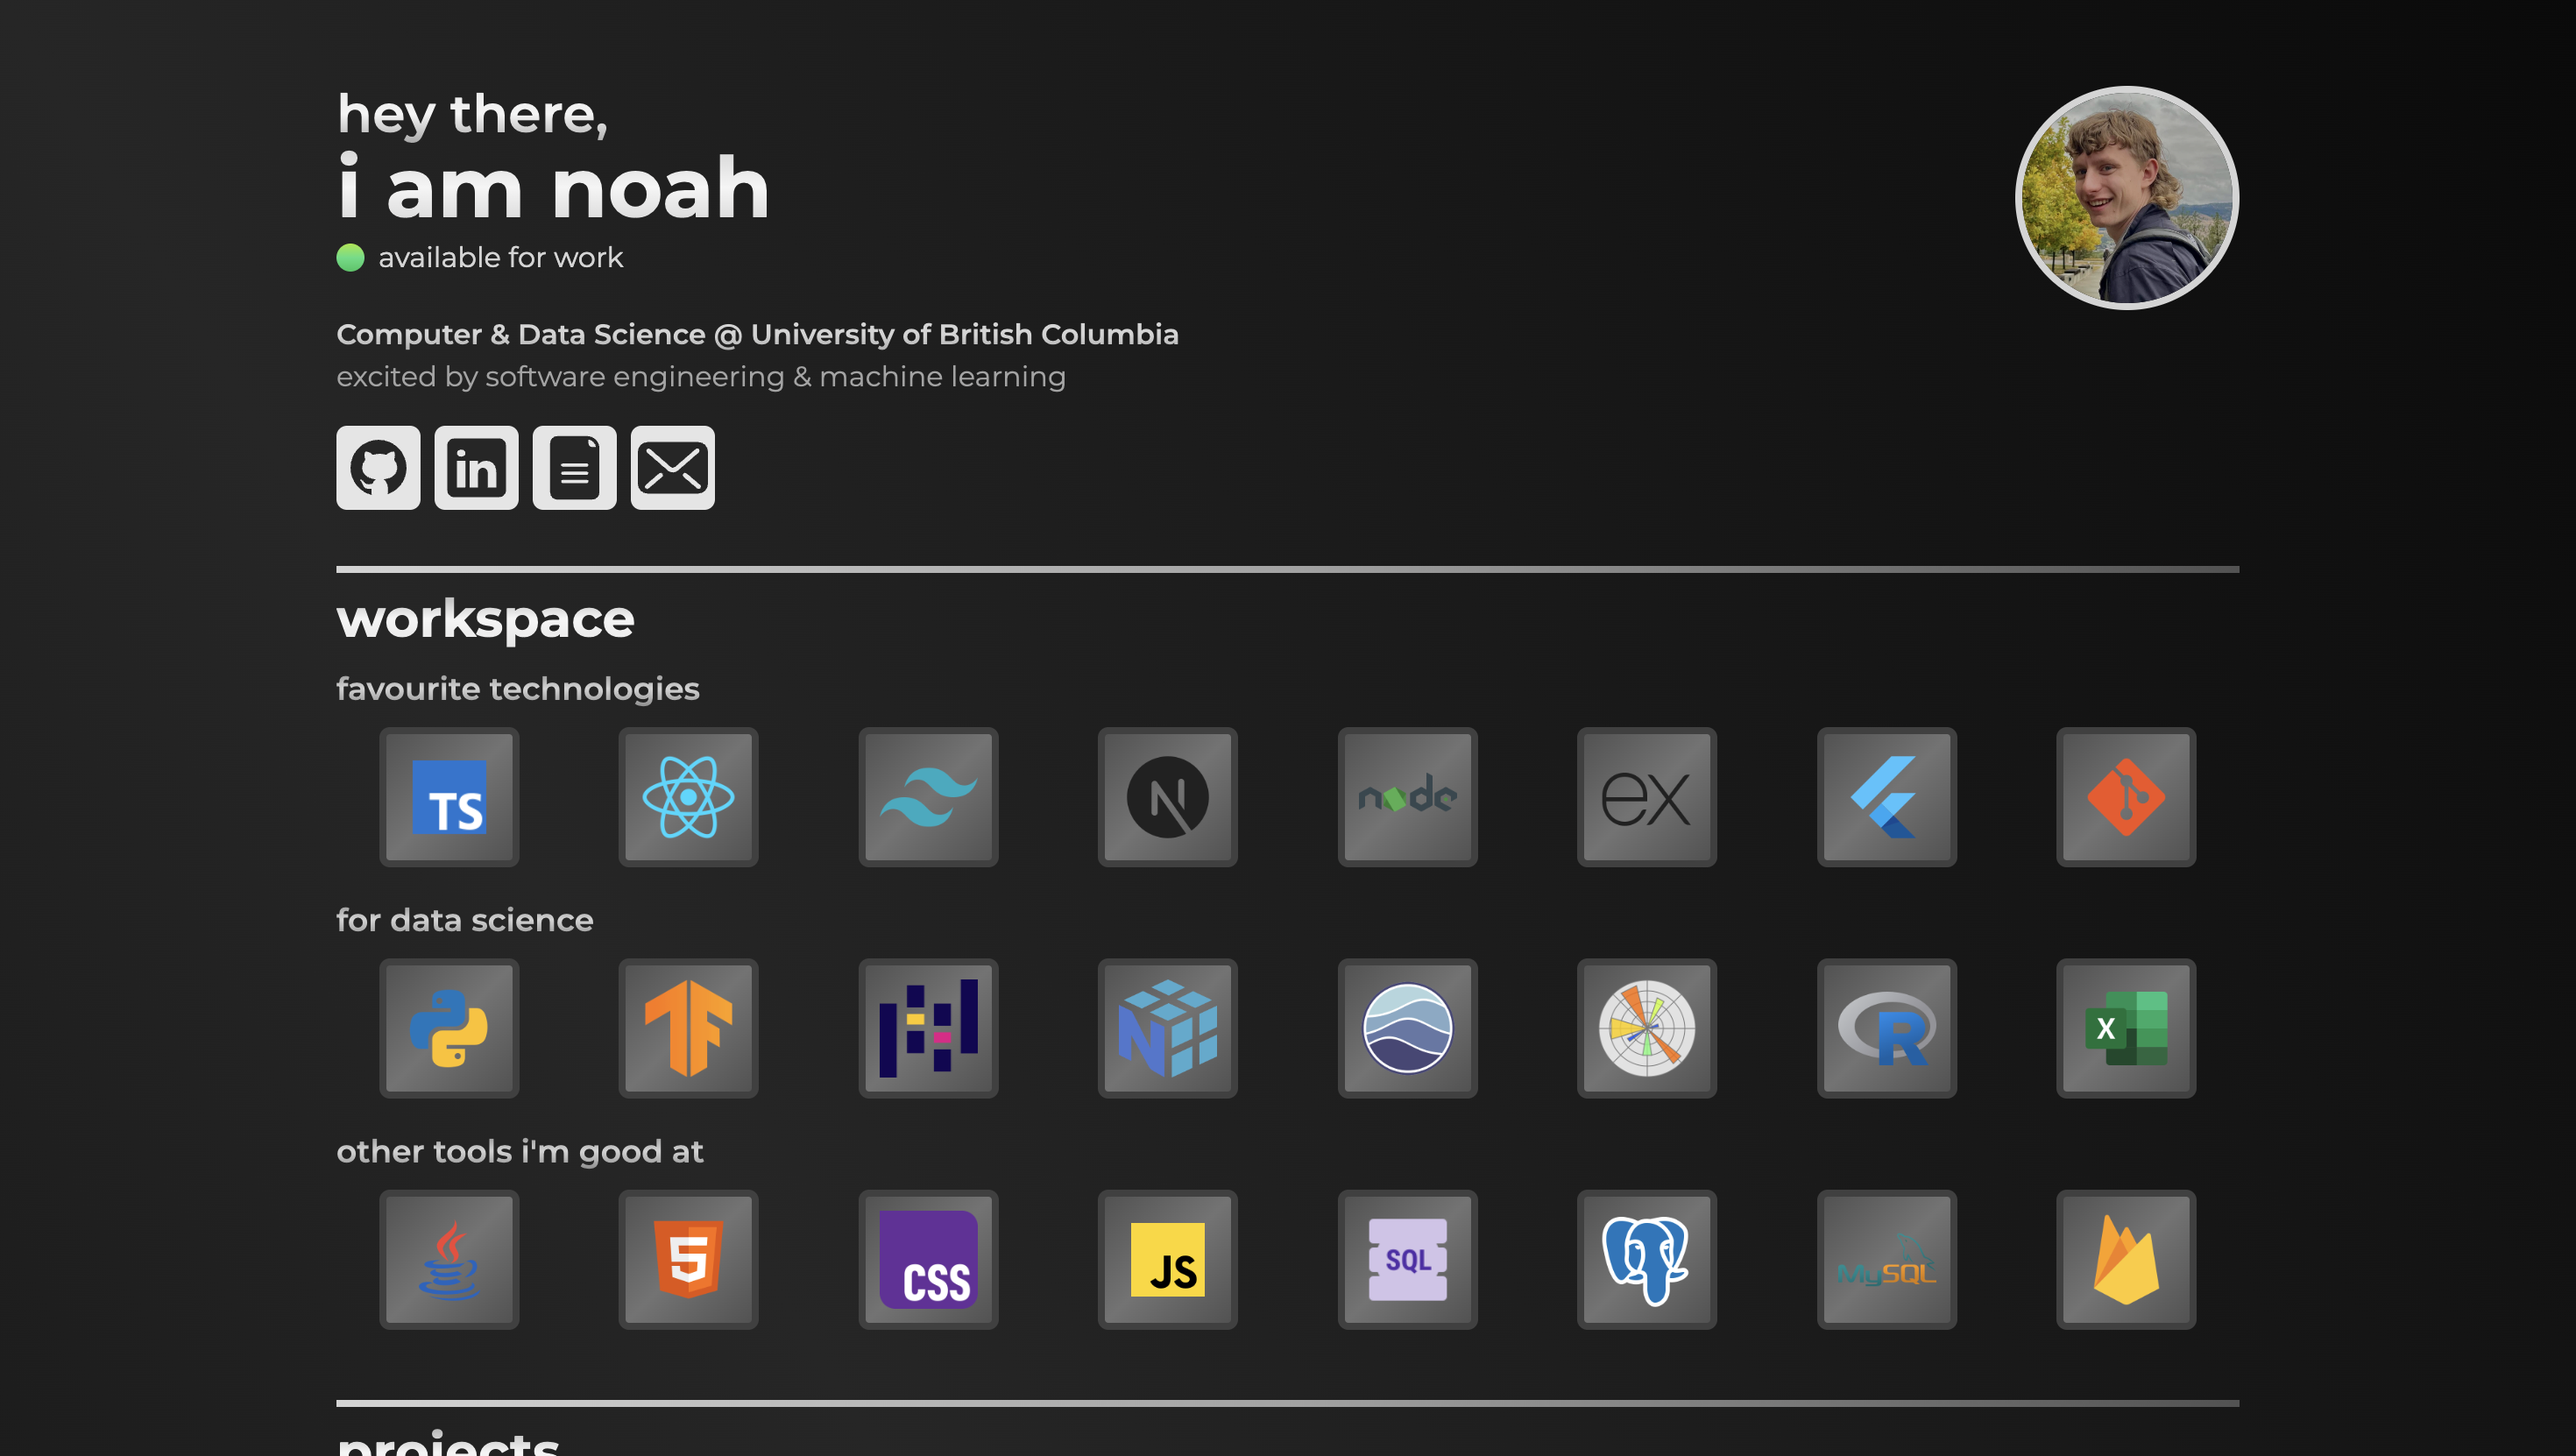
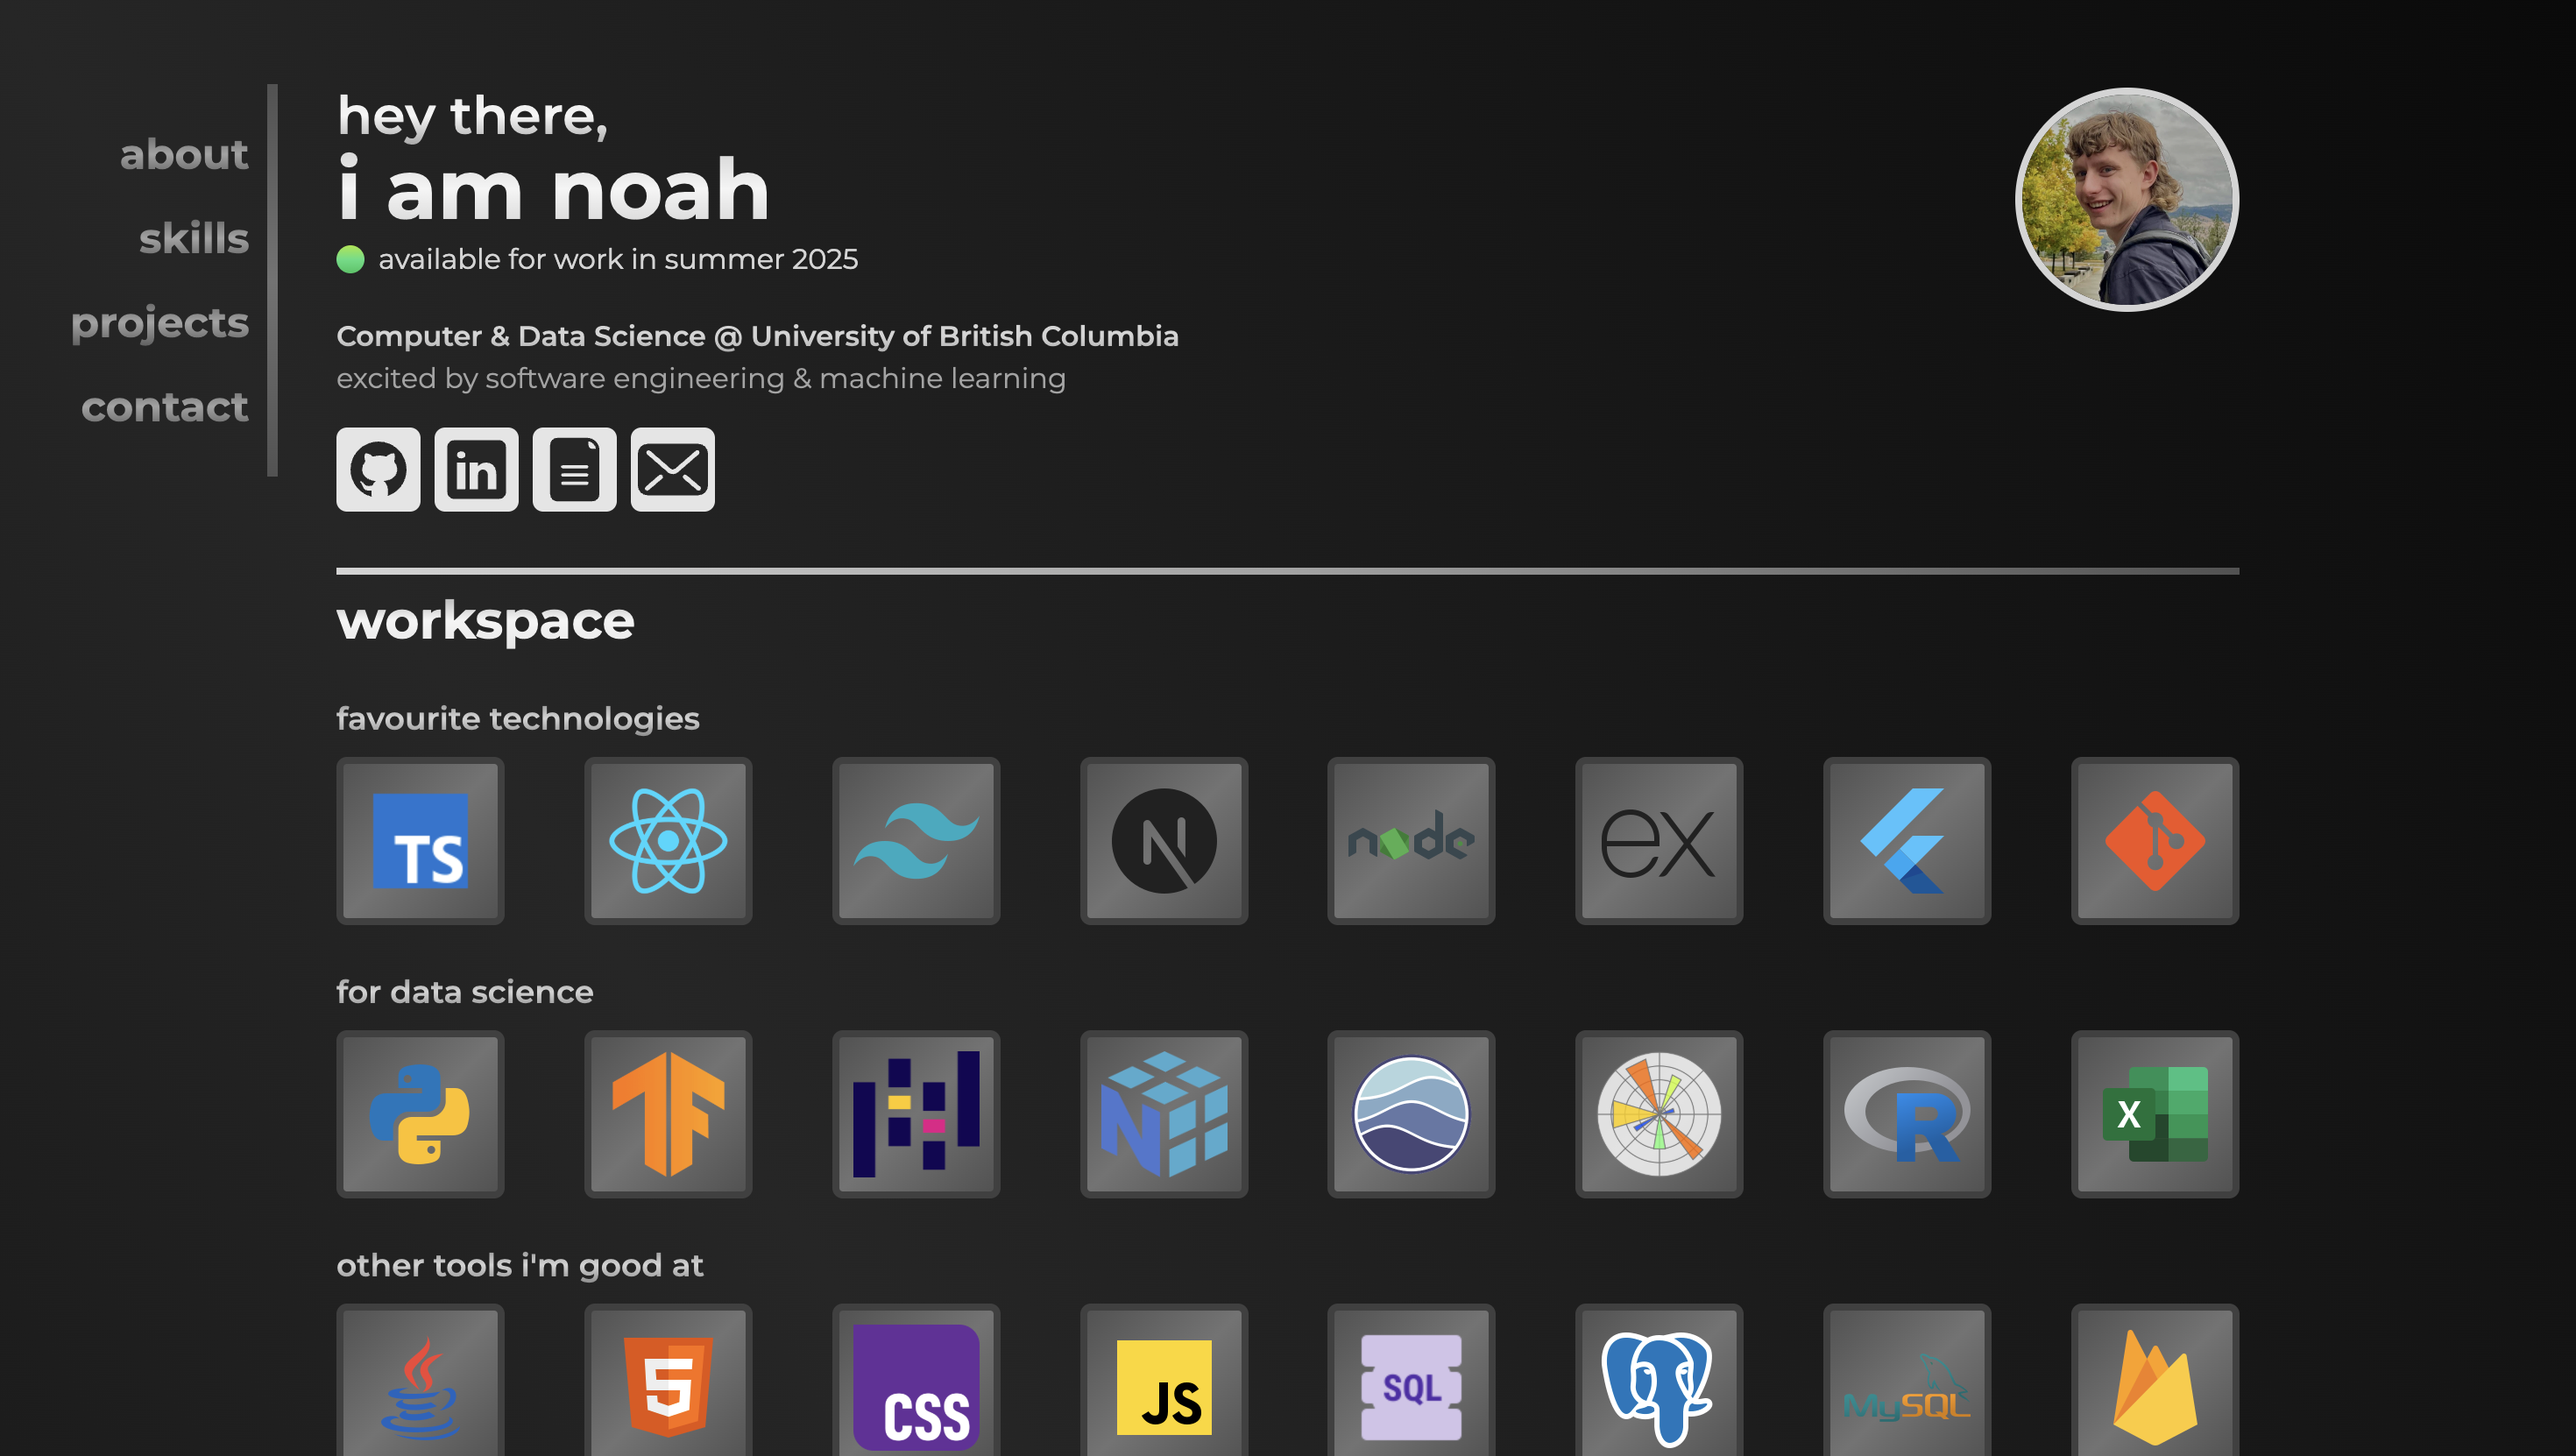
Adding desktop navbar

diff --git a/src/sections/Workspace.jsx b/src/sections/Workspace.jsx
@@ -8,10 +8,10 @@ export default function Workspace() {
       <section id="skills">
         <SectionHeader text="workspace" />
         <GradientText
-          properties="text-lg font-semibold from-neutral-500 via-neutral-300 to-neutral-500"
+          properties="text-lg mt-6 mb-2 font-semibold from-neutral-500 via-neutral-300 to-neutral-500"
           text="favourite technologies"
         />
-        <div className="flex flex-wrap lg:gap-2 gap-6 lg:justify-around justify-start">
+        <div className="flex flex-wrap lg:gap-2 gap-6 lg:justify-between justify-start">
           <TechIcon name="typescript" link="https://www.typescriptlang.org" />
           <TechIcon name="react" link="https://react.dev" />
           <TechIcon name="tailwind" link="https://tailwindcss.com" />
@@ -22,10 +22,10 @@ export default function Workspace() {
           <TechIcon name="git" link="https://git-scm.com" />
         </div>
         <GradientText
-          properties="text-lg mt-2 font-semibold from-neutral-500 via-neutral-300 to-neutral-500"
+          properties="text-lg mt-6 mb-2 font-semibold from-neutral-500 via-neutral-300 to-neutral-500"
           text="for data science"
         />
-        <div className="flex flex-wrap lg:gap-2 gap-6 lg:justify-around justify-start ">
+        <div className="flex flex-wrap lg:gap-2 gap-6 lg:justify-between justify-start ">
           <TechIcon name="python" link="https://www.python.org" />
           <TechIcon name="tensorflow" link="https://www.tensorflow.org" />
           <TechIcon name="pandas" link="https://pandas.pydata.org" />
@@ -39,10 +39,10 @@ export default function Workspace() {
           />
         </div>
         <GradientText
-          properties="text-lg mt-4 font-semibold from-neutral-500 via-neutral-300 to-neutral-500"
+          properties="text-lg mt-6 mb-2 font-semibold from-neutral-500 via-neutral-300 to-neutral-500"
           text="other tools i'm good at"
         />
-        <div className="flex flex-wrap lg:gap-2 gap-6 lg:justify-around justify-start">
+        <div className="flex flex-wrap lg:gap-2 gap-6 lg:justify-between justify-start">
           <TechIcon name="java" link="https://www.java.com/en/" />
           <TechIcon
             name="html"

diff --git a/src/components/Navbar.jsx b/src/components/Navbar.jsx
@@ -1,18 +1,12 @@
+import DesktopNavButton from './DesktopNavButton';
+
 function Navbar() {
   return (
-    <div className="fixed top-0 left-0 mt-12 ml-4 flex flex-col justify-end ">
-      <a href="#about" className="hover:text-neutral-300">
-        About
-      </a>
-      <a href="#skills" className="hover:text-neutral-300">
-        Skills
-      </a>
-      <a href="#projects" className="hover:text-neutral-300">
-        Projects
-      </a>
-      <a href="#contact" className="hover:text-neutral-300">
-        Contact
-      </a>
+    <div className="lgnavbar relative hidden lg:fixed lg:top-0 lg:left-0 lg:my-12 lg:ml-2 lg:flex lg:flex-col lg:items-end lg:text-2xl lg:font-bold lg:py-4 lg:pl-8">
+      <DesktopNavButton id="about" />
+      <DesktopNavButton id="skills" />
+      <DesktopNavButton id="projects" />
+      <DesktopNavButton id="contact" />
     </div>
   );
 }

diff --git a/src/sections/Header.jsx b/src/sections/Header.jsx
@@ -19,7 +19,7 @@ export default function Header() {
               <div className="flex items-center space-x-2">
                 <div className="bg-gradient-to-b from-lime-400 via-green-400 to-green-500 rounded-full w-4 h-4 text-neutral-400"></div>
                 <p className="text-md text-neutral-300 m-1">
-                  available for work
+                  available for work in summer 2025
                 </p>
               </div>
               <GradientText
@@ -49,7 +49,7 @@ export default function Header() {
             <SocialDashboard />
           </div>
         </div>
-        {/* <Navbar /> */}
+        <Navbar />
       </section>
     </>
   );

diff --git a/src/components/DesktopNavButton.jsx b/src/components/DesktopNavButton.jsx
@@ -1,0 +1,18 @@
+import GradientText from './GradientText';
+
+function DesktopNavButton({ id }) {
+  return (
+    <button
+      className="text-neutral-500 hover:text-neutral-200 hover:-translate-x-4 transition-all duration-300 ease-in-out py-2 pr-4"
+      onClick={() =>
+        document.getElementById(`${id}`).scrollIntoView({ behavior: 'smooth' })
+      }
+    >
+      <GradientText
+        properties="from-neutral-600 via-neutral-400 to-neutral-600 hover:from-neutral-400 hover:via-neutral-300 hover:to-neutral-400"
+        text={id}
+      />
+    </button>
+  );
+}
+export default DesktopNavButton;

diff --git a/src/index.css b/src/index.css
@@ -3,12 +3,19 @@
 @tailwind components;
 @tailwind utilities;
 
-html {
-  @apply scroll-smooth;
-}
-
 body {
   @apply flex flex-col items-center justify-center bg-gradient-to-bl from-neutral-950 via-neutral-800 to-neutral-900  bg-neutral-950 text-red-500 mx-4 lg:mx-48;
+}
+
+/* Right bar in navigation */
+.lgnavbar::after {
+  content: '';
+  position: absolute;
+  top: 0;
+  right: 0;
+  width: 0.25em;
+  height: 100%;
+  background: linear-gradient(to bottom, #525252, #737373, #525252);
 }
 
 .flip-card {
